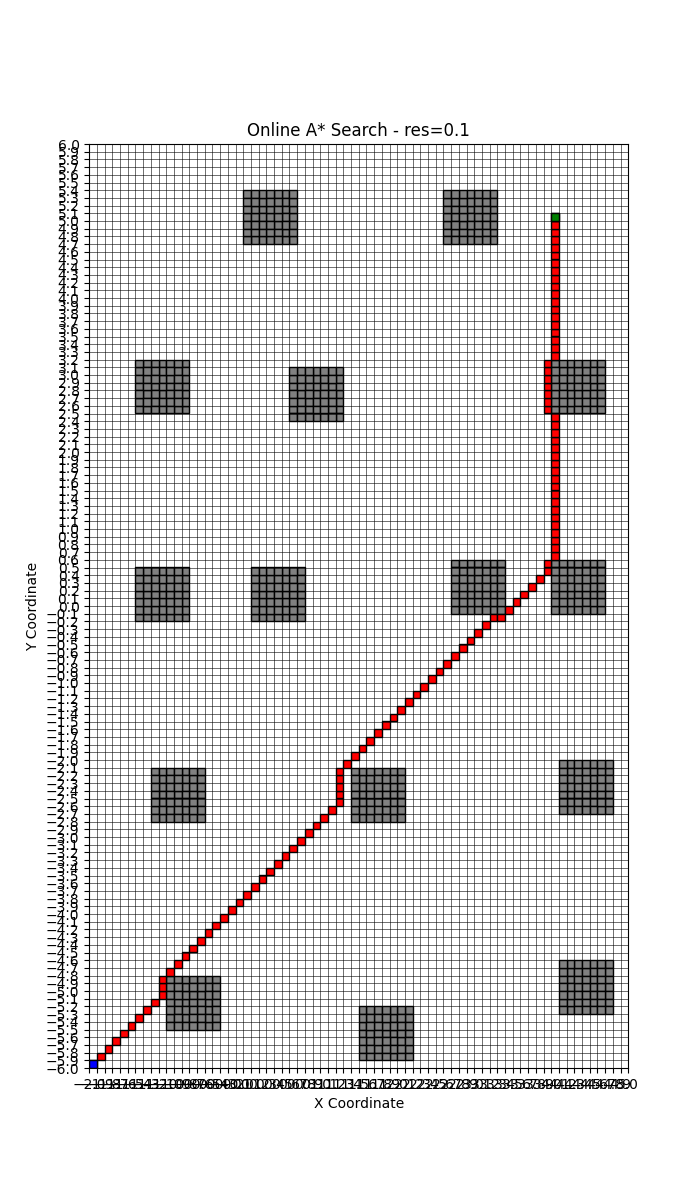
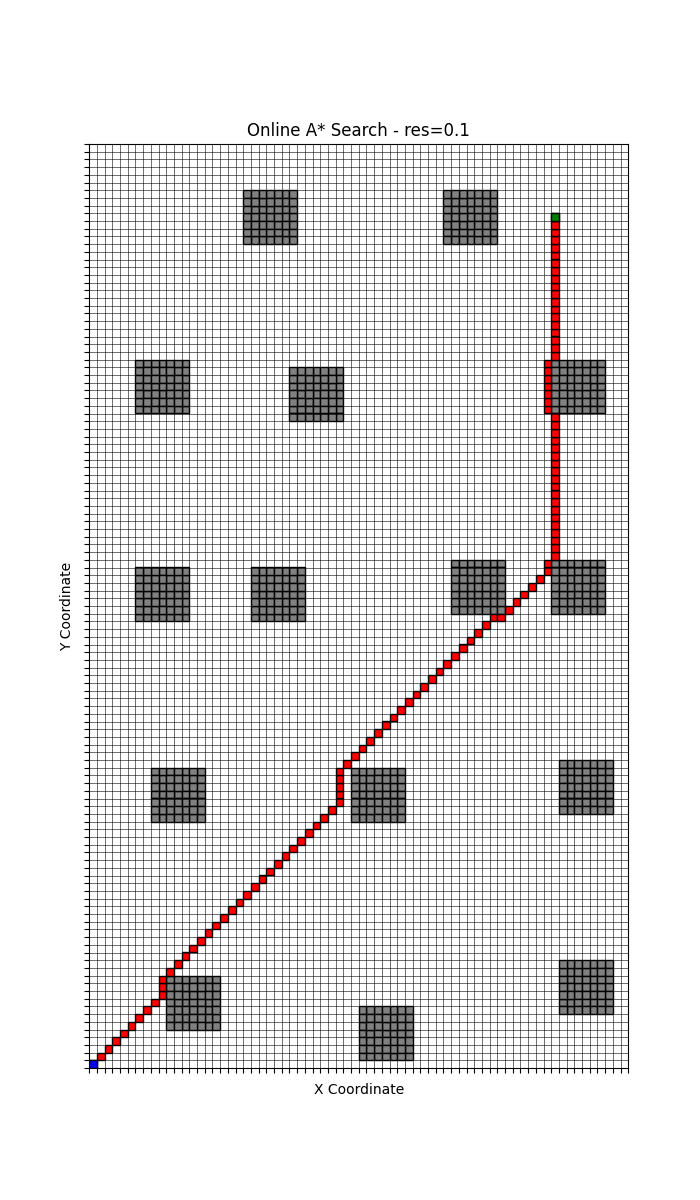
Fixed online a star to work with integer representation

Changed region(s): [[0.03, 0.1233, 0.12, 0.8942], [0.12, 0.8942, 0.9, 0.925]]

diff --git a/search.py b/search.py
@@ -9,6 +9,9 @@ Date: 10/11/2025
 import numpy as np
 import heapq
 
+#
+# --- Grid Representation ---
+#
 def pos_to_grid(pos, res):
     """
     Convert from orig units to internal integer representation
@@ -29,6 +32,9 @@ def round_to_res(n, res):
     else: n_arr = n
     return np.round(np.floor(n_arr / res)*res, 1)   # TODO: Better way of eliminating floating point
 
+#
+# --- A* ---
+#
 class Node():
     """
     A node in an A* search graph.
@@ -48,23 +54,13 @@ class Node():
         self.gcost = np.inf
         self.hcost = np.inf
 
-    def round_neighbor_to_res(self, n, res):
-        """
-        Rounding for neighbors should round to closest resolution interval
-        instead of rounding down.
-        """
-        return np.round(np.round(n / res)*res, 1)
-
     def get_neighbor_coords(self, bounds, res):
         neighbors = []
 
         # Cover full immediate neighborhood
         for dx in range(-1, 2):
             for dy in range(-1, 2):
-                x, y = (self.position[0] + dx), (self.position[1] + dy)
-
-                # neigh = self.round_neighbor_to_res(np.array([x,y]), res)
-                neigh = (x,y)
+                neigh = (self.position[0] + dx, self.position[1] + dy)
                 
                 # Skip node coords
                 if tuple(neigh) == tuple(self.position):
@@ -92,7 +88,13 @@ class Node():
         return f"Node(position={self.position} fcost={self.fcost} gcost={self.gcost} hcost={self.hcost})"
 
 
-def a_star(start_f, goal_f, bounds_f, res, obstacles_f, return_float=True):
+def a_star(start_rep, 
+           goal_rep, 
+           bounds_rep, 
+           res, 
+           obstacles_f, 
+           online=False,
+           obstacles_i=None):
     """
     Use A* path finding to determine the best path from a start to a goal.
 
@@ -101,17 +103,25 @@ def a_star(start_f, goal_f, bounds_f, res, obstacles_f, return_float=True):
         goal_f: Goal position
         bounds_f: Gridworld bounds
         res: Grid resolution
-        obstacles_f: Set of obstacle locations, rounded to Gridworld resolution
-        return_float: Whether to return path in internal int representation or final
-                      true units.
+        obstacles_f: Set of obstacle locations, rounded to Gridworld resolution. This
+                     param is always needed, for resolving floating point error.
+        online: Whether to return path in internal int representation or final
+                true units, and expect the same for obstacle inputs.
+        obstacles_i: If online, pass inputs in integer form as well 
     """
     # Convert real coords into integer representations
-    start, goal = pos_to_grid(start_f, res), pos_to_grid(goal_f, res)
-    obstacles = set(pos_to_grid(o, res) for o in obstacles_f)
-    bounds = np.array([
-        pos_to_grid(bounds_f[0], res),
-        pos_to_grid(bounds_f[1], res)
-    ])
+    if online: 
+        # If running online, integer rep is passed in
+        start, goal = start_rep, goal_rep
+        obstacles = obstacles_i
+        bounds = bounds_rep
+    else: 
+        start, goal = pos_to_grid(start_rep, res), pos_to_grid(goal_rep, res)
+        obstacles = set(pos_to_grid(o, res) for o in obstacles_f)
+        bounds = np.array([
+            pos_to_grid(bounds_rep[0], res),
+            pos_to_grid(bounds_rep[1], res)
+        ])
 
     # Heuristic cost is Euclidean distance
     def h(node):
@@ -134,12 +144,9 @@ def a_star(start_f, goal_f, bounds_f, res, obstacles_f, return_float=True):
 
     found = False
     current = start
-    test_iter = 0   # DEBUG
     while open_heap:
-        test_iter += 1  # DEBUG
         # Get node in open set with lowest f cost
         current = heapq.heappop(open_heap)
-        # curr_pos = tuple(round_to_res(current.position, res))
         curr_pos = current.position
         if curr_pos in closed: continue
         open_set.remove(curr_pos)
@@ -153,7 +160,6 @@ def a_star(start_f, goal_f, bounds_f, res, obstacles_f, return_float=True):
         # Iterate over neighbors of current
         neighbors = current.get_neighbor_coords(bounds, res)
         for neigh in neighbors:
-            # neigh = round_to_res(neigh, res)
             if neigh in closed: continue
             
             # Calculate gcost, hcost, and fcost based on current
@@ -184,7 +190,7 @@ def a_star(start_f, goal_f, bounds_f, res, obstacles_f, return_float=True):
 
         path.reverse()
 
-    if return_float: path = [grid_to_pos(p, res) for p in path]
+    if not online: path = [grid_to_pos(p, res) for p in path]
     return path
 
 def a_star_online(start_f, goal_f, bounds_f, res, obstacles_f):
@@ -200,28 +206,30 @@ def a_star_online(start_f, goal_f, bounds_f, res, obstacles_f):
     """
     # Initialization
     start, goal = pos_to_grid(start_f, res), pos_to_grid(goal_f, res)
-    start, goal = pos_to_grid(start_f, res), pos_to_grid(goal_f, res)
     obstacles = set(pos_to_grid(o, res) for o in obstacles_f)
     bounds = np.array([
         pos_to_grid(bounds_f[0], res),
         pos_to_grid(bounds_f[1], res)
     ])
     path = [tuple(start)]
-    known_obstacles = set() # Start without known obstacles
+    known_obstacles_i = set()     # Start without known obstacles
+    known_obstacles_f = set()   # Needed to prevent floating point errors
 
     if tuple(start) in obstacles: return path
 
     # Continue until goal is reached
     current = start
     while not current == goal:
-        naive_path = a_star(current, goal, bounds, res, known_obstacles, return_float=False)
+        naive_path = a_star(current, goal, bounds, res, known_obstacles_f, 
+                            online=True, obstacles_i=known_obstacles_i)
         if not naive_path: break  # No path found
 
         # Follow naive path
         for node in naive_path[1:]: # First node in path is last node of prev path
             # If node on naive path is obstacle, add to known_obstacles and replan
-            if node in obstacles:
-                known_obstacles.add(node)
+            if node in obstacles or (tuple(grid_to_pos(node, res)) in obstacles_f):
+                known_obstacles_i.add(node)
+                known_obstacles_f.add(tuple(grid_to_pos(node, res)))
                 # TODO: Check all neighbors of current for obstacles as well
                 break
             else:
@@ -229,5 +237,6 @@ def a_star_online(start_f, goal_f, bounds_f, res, obstacles_f):
                 current = node
                 path.append(current)
 
+    path = [grid_to_pos(p, res) for p in path]
     return path
 

diff --git a/questions.py b/questions.py
@@ -64,14 +64,17 @@ def plot_grid(bounds, res, obstacles, title=None):
         ax.add_patch(rect)
 
     # Set up grid
+    ax.set_xticks(x_range)
+    ax.set_yticks(y_range)
+    ax.grid(color='black', linewidth=0.4)
 
     # Set up axis labels
     if res >= 0.5:
         ax.set_xticklabels(x_range)
         ax.set_yticklabels(y_range)
-    ax.set_xticks(x_range)
-    ax.set_yticks(y_range)
-    ax.grid(color='black', linewidth=0.4)
+    else:
+        ax.set_xticklabels([])
+        ax.set_yticklabels([])
     ax.set_xlabel('X Coordinate')
     ax.set_ylabel('Y Coordinate')
     ax.set_aspect('equal')
@@ -222,5 +225,31 @@ def q6():
     goal = np.array([4, 5])
     path = a_star(start, goal, bounds, res, obstacles)
     plot_search(start, goal, path, bounds, res, obstacles, f'Online A* Search - res={res}', 'q6.png')
+
+    print("Done\n")
+
+def q7():
+    print("Running question 7...", end="", flush=True)
+    bounds = [
+        [-2, 5],    # x bounds
+        [-6, 6]     # y bounds
+    ]
+    res = 0.1
+    obstacles = get_obstacles(bounds, res, inflate=3)
+
+    start = round_to_res(np.array([2.45, -3.55]), res)
+    goal = round_to_res(np.array([0.95, -1.55]), res)
+    path = a_star_online(start, goal, bounds, res, obstacles)
+    plot_search(start, goal, path, bounds, res, obstacles, f'Online A* Search - res={res}', 'q7a.png')
+
+    start = round_to_res(np.array([4.95, -0.05]), res)
+    goal = round_to_res(np.array([2.45, 0.25]), res)
+    path = a_star_online(start, goal, bounds, res, obstacles)
+    plot_search(start, goal, path, bounds, res, obstacles, f'Online A* Search - res={res}', 'q7b.png')
+
+    start = round_to_res(np.array([-0.55, 1.45]), res)
+    goal = round_to_res(np.array([1.95, 3.95]), res)
+    path = a_star_online(start, goal, bounds, res, obstacles)
+    plot_search(start, goal, path, bounds, res, obstacles, f'Online A* Search - res={res}', 'q7c.png')
 
     print("Done\n")

diff --git a/run.py b/run.py
@@ -6,7 +6,7 @@ Main script for HW0 of ME 469 at Northwestern University.
 Author: Jared Berry
 Date: 10/11/2025
 """ 
-from questions import q1, q2, q3, q4, q5, q6
+from questions import q1, q2, q3, q4, q5, q6, q7
 
 def main():
     print("*** STARTING ***\n")
@@ -17,6 +17,7 @@ def main():
     q4()
     q5()
     q6()
+    q7()
     
     print("\n*** DONE ***")
     return
